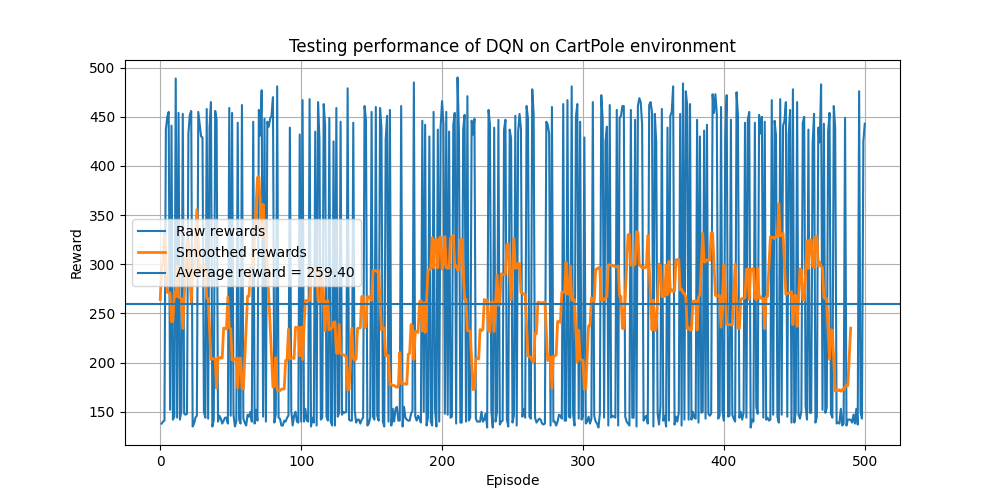
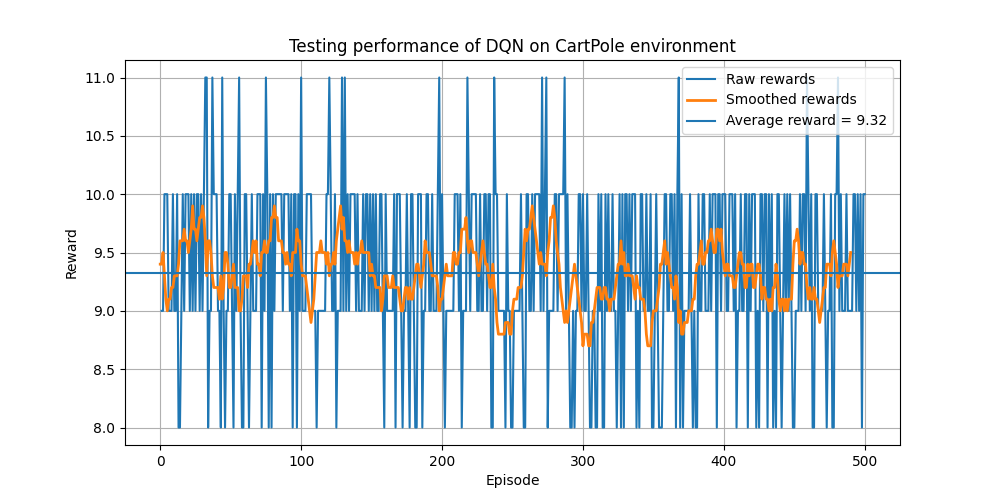
retrained the agent, added stopping trial in train_optuna if max reward achieved

diff --git a/train_optuna.py b/train_optuna.py
@@ -4,6 +4,7 @@ import gymnasium as gym
 from stable_baselines3 import DQN
 from stable_baselines3.common.logger import configure
 from stable_baselines3.common.evaluation import evaluate_policy
+from stable_baselines3.common.callbacks import EvalCallback
 import torch
 import yaml
 import optuna
@@ -15,21 +16,39 @@ def set_seed(SEED):
     np.random.seed(SEED)
     torch.manual_seed(SEED)
 
+def stop_if_500(study, trial, fixed_config):
+    if trial.value and trial.value == 500:
+        print("Max reward 500 achieved. Early stopping...")
+
+        full_config = fixed_config.copy()
+        full_config.update(trial.params)
+        config = {"CartPole-v1": full_config}
+        with open("configs/optimized_config.yaml", "w") as f:
+            yaml.dump(config, f)
+
+        study.stop()
+
 # Define the objective function
 def objective(trial, cartpole_config, model_file="dqn_cartpole_optuna.zip"):
 
-    # Create environment
+    # Create training environment
     env = gym.make("CartPole-v1")
     env.reset(seed=SEED)
 
+    # Evaluation environment (different seed)
+    # eval_env = gym.make("CartPole-v1")
+    # eval_env.reset(seed=SEED + 100) 
+
     # Define hyperparameter search space
-    learning_rate = trial.suggest_loguniform("learning_rate", 1e-5, 1e-2)
-    buffer_size = trial.suggest_int("buffer_size", 50000, 200000, step=50000)
+    learning_rate = trial.suggest_float("learning_rate", 1e-4, 1e-3, log=True)
     batch_size = trial.suggest_categorical("batch_size", [32, 64, 128])
-    gamma = trial.suggest_float("gamma", 0.9, 0.9999)
-    target_update_interval = trial.suggest_int("target_update_interval", 100, 10000, step=100)
-    train_freq = trial.suggest_int("train_freq", 1, 256, step=4)
+    buffer_size = trial.suggest_int("buffer_size", 50000, 200000, step=50000)
+    learning_starts = trial.suggest_int("learning_starts", 100, 1000, step=100)
+    target_update_interval = trial.suggest_int("target_update_interval", 10, 10000, step=1000)
+    train_freq = trial.suggest_categorical("train_freq", [4, 16, 32, 64, 128, 256])
+    gradient_steps = trial.suggest_categorical("gradient_steps", [4, 16, 32, 64, 128, 256])
     exploration_fraction = trial.suggest_float("exploration_fraction", 0.1, 0.2)
+    exploration_final_eps = trial.suggest_float("exploration_final_eps", 0.01, 0.1)
 
     # Create the DQN model
     model = DQN(
@@ -38,23 +57,23 @@ def objective(trial, cartpole_config, model_file="dqn_cartpole_optuna.zip"):
         learning_rate=learning_rate,
         buffer_size=buffer_size,
         batch_size=batch_size,
-        learning_starts=cartpole_config['learning_starts'],
-        gamma=gamma,
+        learning_starts=learning_starts,
+        gamma=cartpole_config['gamma'],
         target_update_interval=target_update_interval,
         train_freq=train_freq,
-        gradient_steps=cartpole_config['gradient_steps'],
+        gradient_steps=gradient_steps,
         exploration_fraction=exploration_fraction,
-        exploration_final_eps=cartpole_config['exploration_final_eps'],
-        verbose=1,
+        exploration_final_eps=exploration_final_eps,
+        verbose=0,
         policy_kwargs=eval(cartpole_config['policy_kwargs']),
         tensorboard_log="./dqn_logs/optuna/"
         )
 
-    # Train the the model and display the progress bar
-    model.learn(total_timesteps=cartpole_config['n_timesteps'], progress_bar=True)
+    # Train the the model
+    model.learn(total_timesteps=cartpole_config['n_timesteps'], progress_bar=False)
 
     # Evaluate the model
-    episode_rewards, _ = evaluate_policy(model, env, return_episode_rewards=True)
+    episode_rewards, _ = evaluate_policy(model, env, n_eval_episodes=10, return_episode_rewards=True)
     mean_reward = np.mean(episode_rewards)
 
     try:
@@ -66,13 +85,13 @@ def objective(trial, cartpole_config, model_file="dqn_cartpole_optuna.zip"):
         print(f"New best model found with reward {mean_reward:.2f}, saving...")
         model.save(model_file)
 
-
     # Close the environment
     env.close()
+    # eval_env.close()
 
     return mean_reward
 
-def train_model_optuna(config_file, model_file="dqn_cartpole_optuna.zip", n_trials=100, timeout=1800):
+def train_model_optuna(config_file, model_file="dqn_cartpole_optuna.zip", n_trials=200, timeout=3600):
     
     set_seed(SEED)
     # Load hyperparameters from the YAML file
@@ -82,14 +101,22 @@ def train_model_optuna(config_file, model_file="dqn_cartpole_optuna.zip", n_tria
 
     # Run Optuna optimization
     study = optuna.create_study(direction='maximize')
-    study.optimize(lambda trial: objective(trial, cartpole_config), n_trials=n_trials, timeout=timeout)
+    study.optimize(
+        lambda trial: objective(trial, cartpole_config), 
+        n_trials=n_trials, 
+        timeout=timeout, 
+        callbacks=[lambda study, trial: stop_if_500(study, trial, cartpole_config)])
 
     if len(study.trials) > 0 and study.best_trial.state == optuna.trial.TrialState.COMPLETE:
         optimized_params = study.best_params
         print(f"Best hyperparameters: {optimized_params}")
 
-        # Save the optimized hyperparameters into a new config file
+        # Merge fixed and optimized parameters
+        full_config = cartpole_config.copy()
+        full_config.update(optimized_params)
+
+        # Save full config to YAML
         with open("configs/optimized_config.yaml", "w") as f:
-            yaml.dump({"CartPole-v1": optimized_params}, f)
+            yaml.dump({"CartPole-v1": full_config}, f)
     else:
         print("No completed trials found.")

diff --git a/main.py b/main.py
@@ -31,4 +31,4 @@ elif args.mode == "test_optuna":
 
 elif args.mode == "gif":
     model_file = "dqn_cartpole_optuna.zip"
-    test_model_gif(model_file, gif_path="cartpole_fixed.gif")
+    test_model_gif(model_file, gif_path="cartpole_optimized.gif")
